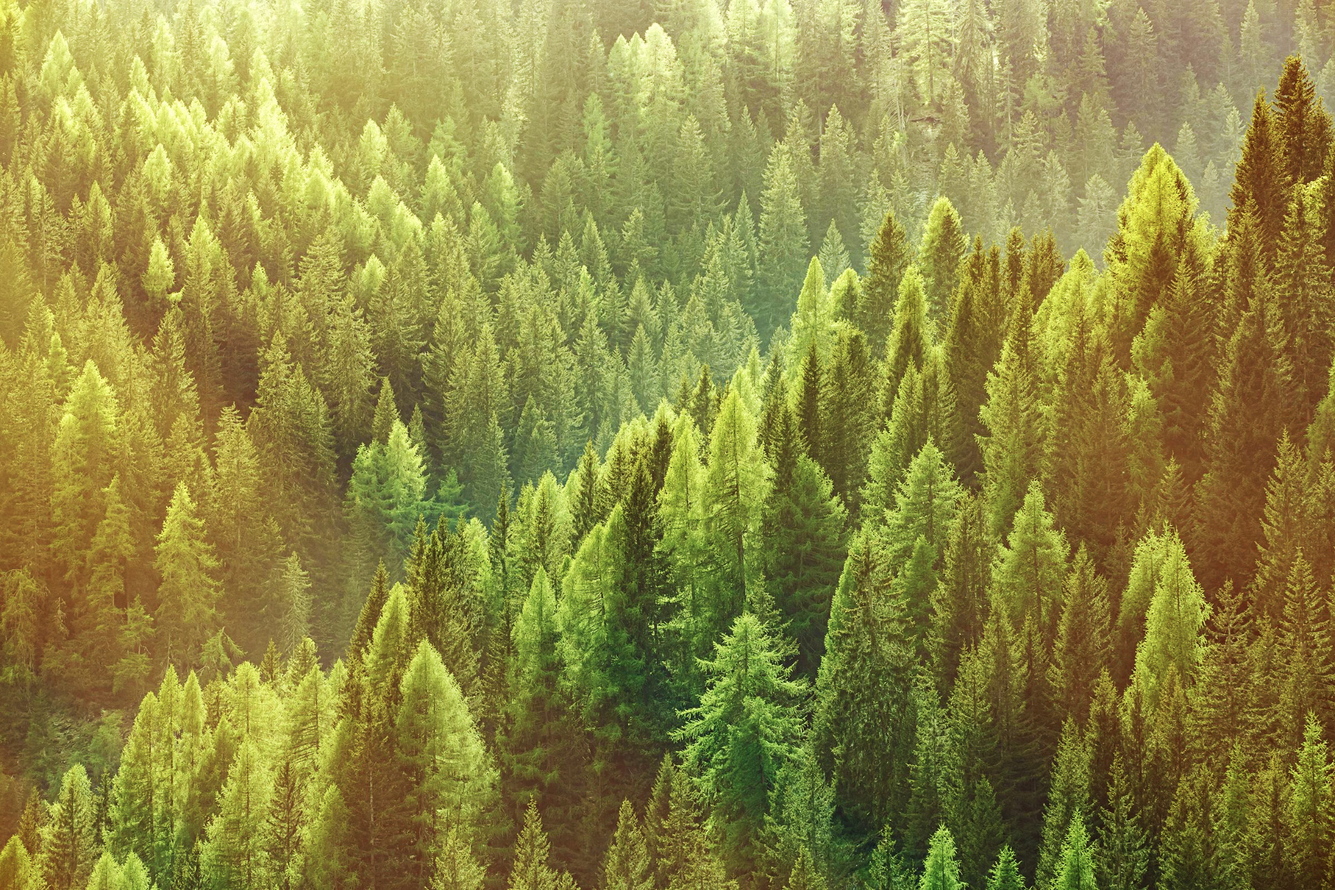
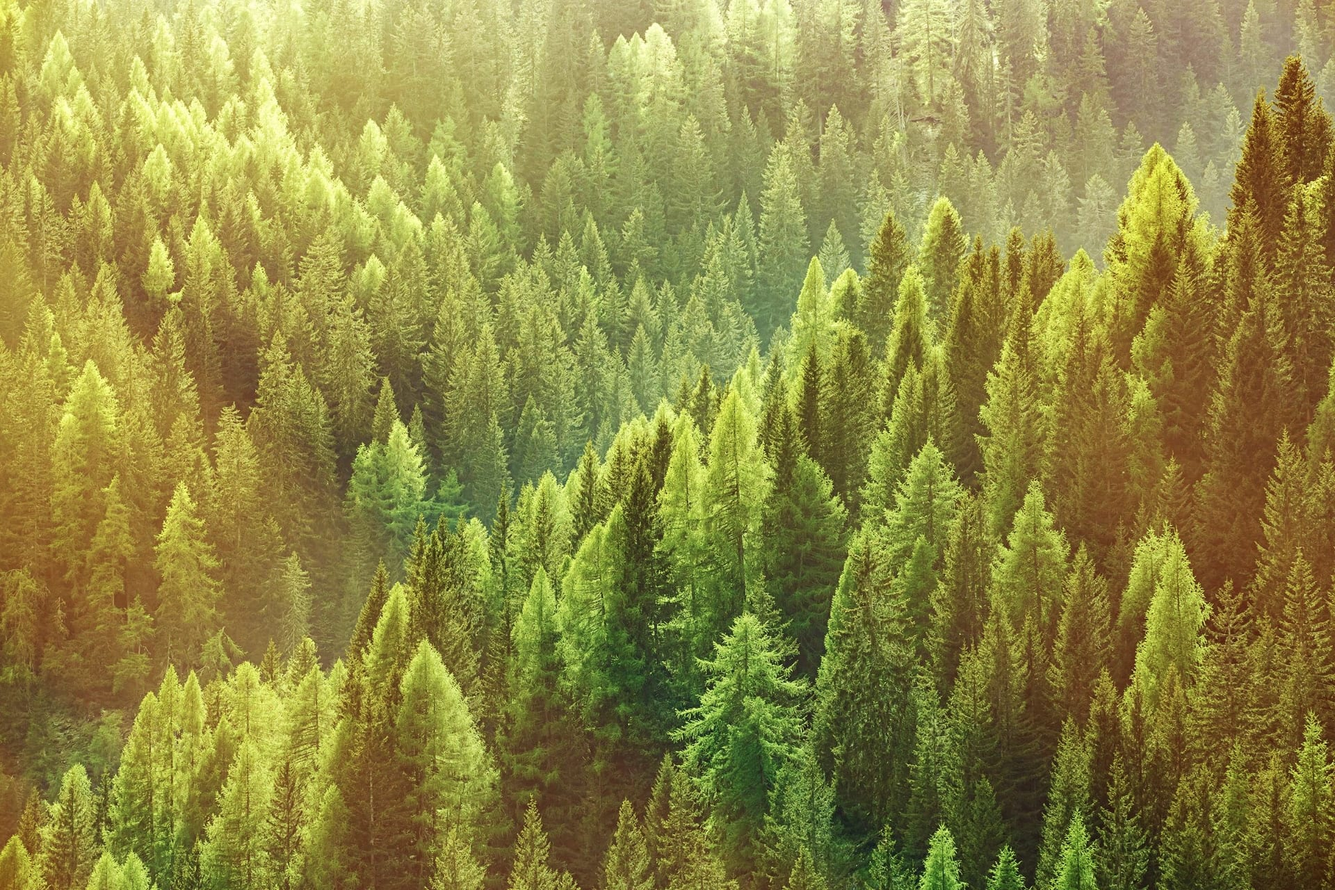
Working with categories and filter #1

Changed region(s): [[0.5, 0.8125, 0.5312, 0.8438]]

diff --git a/store/reducers/products.ts b/store/reducers/products.ts
@@ -28,9 +28,7 @@ export interface ProductsState {
 	error: string;
 	fetching: boolean;
 	sort: SortTypes;
-	search: {
-		value: string;
-	};
+	search: string;
 }
 
 const initialState: ProductsState = {
@@ -49,9 +47,7 @@ const initialState: ProductsState = {
 		name: 'default',
 		toggle: false,
 	},
-	search: {
-		value: '',
-	},
+	search: '',
 };
 
 const initialItems = (state: ProductsState, response: ResponseProducts) => {
@@ -124,7 +120,7 @@ const resetItems = (state: ProductsState, category = true) => {
 	state.page = 1;
 	state.sort.name = 'default';
 	state.sort.toggle = false;
-	state.search.value = '';
+	state.search = '';
 	state.fetchedItems = state.reservedItems;
 	state.fetching = false;
 	if (category) calcCategory(state, 'all', true);
@@ -176,7 +172,7 @@ const productsReducer = createSlice({
 			}
 		},
 		searchValue: (state, { payload }: PayloadAction<string>) => {
-			state.search.value = payload;
+			state.search = payload;
 		},
 		searchProducts: (state, { payload }: PayloadAction<string>) => {
 			const searchText = payload.toLowerCase().trim();
@@ -210,7 +206,6 @@ const productsReducer = createSlice({
 			resetItems(state);
 		},
 		changeCategory: (state, { payload: name }: PayloadAction<string>) => {
-			resetItems(state, false);
 			calcCategory(state, name);
 		},
 	},

diff --git a/components/Categories/index.tsx b/components/Categories/index.tsx
@@ -2,20 +2,19 @@ import { FC } from 'react';
 import Skeleton from 'react-loading-skeleton';
 
 import { Flexbox } from '@/components/Layout';
-import { useAppDispatch, useAppSelector } from '@/services';
+import { useAppSelector } from '@/services';
 import { productsStore } from '@/store';
-import { changeCategory } from '@/store/reducers/products';
+import { changeCategoryWithSort } from '@/store/reducers/combineActions';
 
 import { Category } from './styled';
 
 const skeletonArray = [...new Set(new Array(15).fill('').map(() => Math.round(Math.random() * (200 - 50 + 1) + 100)))];
 
 export const Categories: FC<{ isLoading: boolean }> = ({ isLoading }) => {
-	const { categories } = useAppSelector(productsStore);
-	const dispatch = useAppDispatch();
+	const { categories, search } = useAppSelector(productsStore);
 
 	const handleClick = (name: string) => {
-		dispatch(changeCategory(name));
+		changeCategoryWithSort(name);
 	};
 
 	return (
@@ -29,6 +28,7 @@ export const Categories: FC<{ isLoading: boolean }> = ({ isLoading }) => {
 								$active={category.active}
 								type="button"
 								key={category.name}
+								disabled={search.length !== 0}
 								onClick={() => handleClick(category.name)}
 							>
 								{category.name}

diff --git a/app/page.tsx b/app/page.tsx
@@ -10,12 +10,14 @@ export default function MainPage() {
 	return (
 		<>
 			<ImageForest
-				src={forest}
+				src={forest.src}
+				width={forest.width}
+				height={forest.height}
+				blurDataURL={forest.blurDataURL}
 				placeholder="blur"
-				blurDataURL={`./${forest.blurDataURL}`}
+				quality={80}
+				sizes="(max-width: 1000px) 1000px, 100vw"
 				alt="forest"
-				quality={60}
-				priority
 			/>
 			<Container $pt>
 				<LayerBlock $fixedPadding>
@@ -28,11 +30,12 @@ export default function MainPage() {
 					</p>
 					<ImageLogos
 						src={logos}
+						width={logos.width}
+						height={logos.height}
+						blurDataURL={logos.blurDataURL}
 						placeholder="blur"
-						blurDataURL={`./${logos.blurDataURL}`}
+						quality={80}
 						alt="logos"
-						quality={60}
-						priority
 					/>
 				</LayerBlock>
 

diff --git a/store/reducers/combineActions.ts b/store/reducers/combineActions.ts
@@ -1,6 +1,6 @@
 import { store } from '@/store';
 import { addToCart, deleteFromCart, trashAll } from '@/store/reducers/cart';
-import { removeAllToggledProducts, toggleProduct } from '@/store/reducers/products';
+import { changeCategory, removeAllToggledProducts, sortProducts, toggleProduct } from '@/store/reducers/products';
 
 const { dispatch } = store;
 
@@ -22,4 +22,14 @@ export const removeFromCart = (id: number) => {
 export const removeAllProducts = () => {
 	dispatch(trashAll());
 	dispatch(removeAllToggledProducts());
+};
+
+export const changeCategoryWithSort = (name: string) => {
+	const { products } = store.getState();
+	dispatch(changeCategory(name));
+
+	if (products.sort.name !== 'default') {
+		const { name: sortName, toggle } = products.sort;
+		dispatch(sortProducts({ name: sortName, toggle }));
+	}
 };

diff --git a/components/Filter/ToggleSort/index.tsx b/components/Filter/ToggleSort/index.tsx
@@ -24,7 +24,7 @@ const ToggleSort: FC<ToggleProps> = ({ sort, value, disabled, onClick, ...props 
 	const handleClick = () => {
 		onClick?.();
 
-		if (sort === 'default' && productsSort.name === sort && search.value === '' && categories[0].active) return;
+		if (sort === 'default' && productsSort.name === sort && search === '' && categories[0].active) return;
 
 		if (sort === 'default') {
 			dispatch(sortProducts({ name: sort }));

diff --git a/app/styled.ts b/app/styled.ts
@@ -5,15 +5,15 @@ import { fadeIn } from '@/theme';
 
 export const ImageForest = styled(Image)`
 	position: absolute;
+	top: 0;
 	left: 0;
 	right: 0;
 	width: 100%;
 	height: 100%;
 	object-fit: cover;
 	z-index: -1;
-	background-color: aqua;
+	background-color: #cad7b2;
 	opacity: 0;
-	filter: hue-rotate(60deg);
 
 	${fadeIn}
 	animation-fill-mode: forwards;

diff --git a/components/Layout/LayerBlock.ts b/components/Layout/LayerBlock.ts
@@ -20,7 +20,7 @@ const LayerBlock = styled(motion.div)<LayerBlockProps>`
 	${({ theme, $mt, $shadow, $fixedPadding }) => css`
 		position: relative;
 		padding: ${$fixedPadding ? '20px' : 0};
-		background-color: #fff;
+		background-color: #fffffff5;
 		border-radius: ${theme.radius.borderRadius};
 		margin-top: ${$mt ? '30px' : 0};
 		margin-bottom: 20px;

diff --git a/next.config.js b/next.config.js
@@ -5,7 +5,7 @@
 module.exports = {
 	reactStrictMode: true,
 	images: {
-		unoptimized: process.env.NODE_ENV === 'development',
+		unoptimized: process.env.NODE_ENV === 'production',
 		deviceSizes: [640, 750, 828, 1080, 1200, 1920, 2048, 3840],
 		imageSizes: [16, 32, 48, 64, 96, 128, 256, 384],
 		remotePatterns: [

diff --git a/components/Categories/styled.ts b/components/Categories/styled.ts
@@ -17,6 +17,12 @@ export const Category = styled.button<{ $active: boolean }>`
 			opacity: 0.9;
 		}
 
+		&:disabled {
+			opacity: 0.5;
+			background-color: ${theme.colors.gray.$5};
+			pointer-events: none;
+		}
+
 		${$active &&
 		css`
 			background-color: ${theme.colors.success};
